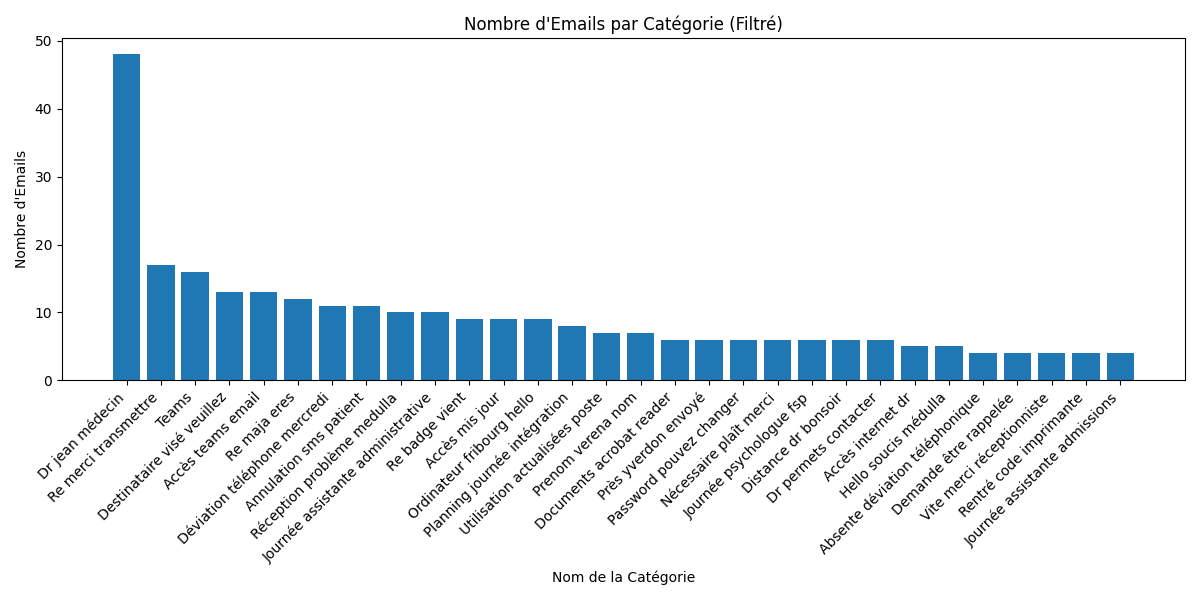
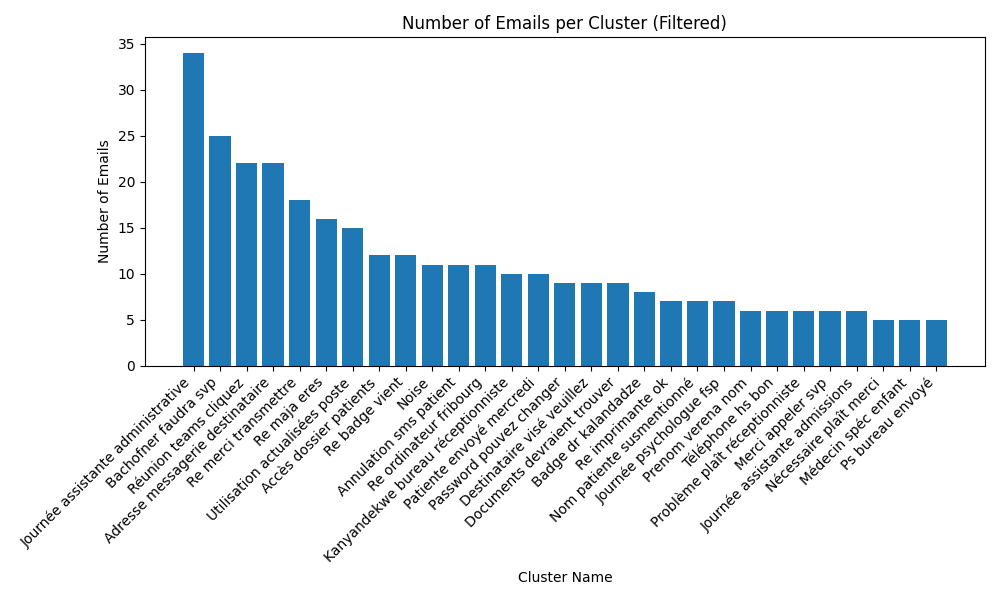
genius idea

diff --git a/templates/clusters.html b/templates/clusters.html
@@ -8,6 +8,7 @@
     <script type="text/javascript" src="//cdn.datatables.net/1.10.25/js/jquery.dataTables.min.js"></script>
 </head>
 <body>
+    <a href="{{ url_for('index') }}">Retourner aux résultats</a>
     <h1>Catégories</h1>
     <h2>Nombre d'Emails par Catégorie</h2>
     <img src="{{ url_for('static', filename='emails_per_cluster_reclassified.png') }}" alt="Emails per Cluster">
@@ -47,6 +48,5 @@
             });
         });
     </script>
-    <a href="{{ url_for('index') }}">Retourner aux résultats</a>
 </body>
 </html>

diff --git a/templates/authors.html b/templates/authors.html
@@ -8,6 +8,7 @@
     <script type="text/javascript" src="//cdn.datatables.net/1.10.25/js/jquery.dataTables.min.js"></script>
 </head>
 <body>
+    <a href="{{ url_for('index') }}">Retourner aux résultats</a>
     <h1>Nos Clients</h1>
     <h2>Top 20 des Auteurs</h2>
     <img src="{{ url_for('static', filename='top_authors.png') }}" alt="Top 20 Auteurs">
@@ -36,6 +37,5 @@
             });
         });
     </script>
-    <a href="{{ url_for('index') }}">Retourner aux résultats</a>
 </body>
 </html>

diff --git a/server_pdf.py b/server_pdf.py
@@ -91,12 +91,13 @@ def preprocess_text(text, author_name):
     return ' '.join(tokens)
 
 # Function to perform clustering and generate visualizations
+# Function to perform clustering and generate visualizations
 def perform_clustering():
     global df_emails, cluster_names, fig_json, X_embedded, cluster_keywords
 
     # Specify the folder path
     folder_path = r'/home/administrator/mail_infra'  # Update this path as needed
-    #folder_path = r'C:\Users\JGH\Documents\Mail semaine du 4 au 8 nov'  # Update this path as needed
+    folder_path = r'C:\Users\JGH\Documents\Mail semaine du 4 au 8 nov'  # Update this path as needed
 
     # Initialize lists to store email contents and metadata
     emails = []
@@ -173,10 +174,11 @@ def perform_clustering():
     )
     X_embedded = umap_reducer.fit_transform(X_np)
 
+    # Initial clustering parameters
     params = {
-        "min_cluster_size": [3, 4, 5, 7, 10, 20, 30, 50, 70, 100],
-        "min_samples": [4, 5, 7, 10, 15, 20, 30, 50, 70, 100, 150, 200, 250, 300],
-        "cluster_selection_epsilon": [0.5, 0.8, 1.0],
+        "min_cluster_size": [3, 4, 5, 7, 10],
+        "min_samples": [1, 2, 3, 4],
+        "cluster_selection_epsilon": [0.5, 1.0, 2.0],
         "metric": ['euclidean']
     }
 
@@ -266,19 +268,20 @@ def perform_clustering():
     # Initialize KeyBERT model
     kw_model = KeyBERT(model_name)
 
-    # Extract cluster categories and topics
-    cluster_texts = {}
-    cluster_keywords = {}
+    # Initialize global variables
     global cluster_names
     cluster_names = {}
     cluster_indices = {}
-    for cluster in set(labels):
-        if cluster != -1:
+    cluster_keywords = {}
+
+    # Function to extract cluster names and keywords
+    def extract_cluster_info(labels):
+        unique_clusters = set(labels) - {-1}
+        for cluster in unique_clusters:
             indices = df_emails[df_emails['Cluster'] == cluster].index
             cluster_indices[cluster] = indices
             cluster_emails = df_emails.loc[indices, 'Email'].tolist()
             cluster_subjects = df_emails.loc[indices, 'Subject'].tolist()
-            cluster_texts[cluster] = cluster_emails
 
             # Combine all cluster emails into a single document
             cluster_combined_text = ' '.join(cluster_emails)
@@ -307,24 +310,37 @@ def perform_clustering():
             for keyword, score in top_keywords[:10]:
                 print(f"  - {keyword} (score: {score:.4f})")
 
-    # Map cluster names to the DataFrame
-    df_emails['Cluster_Name'] = df_emails['Cluster'].map(cluster_names)
-    df_emails['Cluster_Name'] = df_emails['Cluster_Name'].fillna('Noise')
+    # Extract initial cluster information
+    extract_cluster_info(labels)
 
     # --------------------------
-    # Reclustering the Largest Cluster
+    # Iterative Reclustering
     # --------------------------
+    max_iterations = 10
+    iteration = 0
+    total_emails = len(df_emails)
 
-    # Identify the largest cluster
-    cluster_counts = df_emails['Cluster'].value_counts()
-    largest_cluster_label = cluster_counts.idxmax()
-    largest_cluster_size = cluster_counts.max()
+    while True:
+        # Identify the largest cluster
+        cluster_counts = df_emails['Cluster'].value_counts()
+        largest_cluster_label = cluster_counts.idxmax()
+        largest_cluster_size = cluster_counts.max()
+        size_difference = cluster_counts.max() - cluster_counts.min()
+        largest_cluster_percentage = largest_cluster_size / total_emails
 
-    print(f"\nReclustering the largest cluster: {largest_cluster_label} "
-          f"with {largest_cluster_size} emails.")
+        print(f"\nIteration {iteration + 1}:")
+        print(f"Largest cluster {largest_cluster_label} has {largest_cluster_size} emails "
+              f"({largest_cluster_percentage:.2%} of total).")
+        print(f"Size difference between largest and smallest clusters: {size_difference}")
 
-    # Check if the largest cluster is significantly large
-    if largest_cluster_size / len(df_emails) > 0.1:  # Adjust threshold as needed
+        # Check if the largest cluster exceeds 10% of total emails
+        if largest_cluster_percentage <= 0.10 or iteration >= max_iterations:
+            print("Stopping reclustering.")
+            break
+
+        # Proceed to recluster the largest cluster
+        print(f"Reclustering cluster {largest_cluster_label}...")
+
         # Extract data points belonging to the largest cluster
         indices_largest_cluster = df_emails[df_emails['Cluster'] == largest_cluster_label].index
         X_largest_cluster = X_np[indices_largest_cluster]
@@ -339,21 +355,64 @@ def perform_clustering():
         )
         X_embedded_sub = umap_reducer_sub.fit_transform(X_largest_cluster)
 
-        params = {
-            "min_cluster_size": [3, 4, 5, 7, 10, 20, 30, 50, 70, 100],
-            "min_samples": [4, 5, 7, 10, 15, 20, 30, 50, 70, 100, 150, 200, 250, 300],
-            "cluster_selection_epsilon": [0.5, 0.8, 1.0],
+        # Define new clustering parameters for reclustering
+        recluster_params = {
+            "min_cluster_size": [3, 4, 5],
+            "min_samples": [1, 2, 3],
+            "cluster_selection_epsilon": [0.5, 1.0],
             "metric": ['euclidean']
         }
 
-        # For simplicity, select one set of parameters for reclustering
-        reclusterer = hdbscan.HDBSCAN(
-            min_cluster_size=2,
-            min_samples=1,
-            metric='euclidean',
-            cluster_selection_epsilon=0.5
-        )
-        sub_labels = reclusterer.fit_predict(X_embedded_sub)
+        # Initialize reclustering results
+        recluster_results = []
+        reclusterer_configs = []
+
+        # Iterate through reclustering parameter combinations
+        for min_cluster_size, min_samples, epsilon, metric in itertools.product(
+                recluster_params['min_cluster_size'], recluster_params['min_samples'],
+                recluster_params['cluster_selection_epsilon'], recluster_params['metric']
+        ):
+            reclusterer = hdbscan.HDBSCAN(
+                min_cluster_size=min_cluster_size,
+                min_samples=min_samples,
+                metric=metric,
+                cluster_selection_epsilon=epsilon
+            )
+            sub_labels = reclusterer.fit_predict(X_embedded_sub)
+
+            # Unique labels and number of clusters
+            unique_sub_labels = set(sub_labels)
+            num_sub_clusters = len(unique_sub_labels - {-1})
+
+            # Compute statistics
+            sub_cluster_sizes = [sum(sub_labels == cluster) for cluster in unique_sub_labels - {-1}]
+            if sub_cluster_sizes:
+                sub_average_cluster_size = sum(sub_cluster_sizes) / num_sub_clusters
+                sub_size_difference = max(sub_cluster_sizes) - min(sub_cluster_sizes)
+            else:
+                sub_average_cluster_size = 0
+                sub_size_difference = 0
+
+            # Append results
+            recluster_results.append({
+                "min_cluster_size": min_cluster_size,
+                "min_samples": min_samples,
+                "epsilon": epsilon,
+                "num_clusters": num_sub_clusters,
+                "average_cluster_size": sub_average_cluster_size,
+                "size_difference": sub_size_difference
+            })
+            reclusterer_configs.append(reclusterer)
+
+        # Select the reclustering configuration with the maximum number of clusters
+        recluster_results_df = pd.DataFrame(recluster_results)
+        best_recluster_index = recluster_results_df['num_clusters'].idxmax()
+        best_recluster_params = recluster_results_df.iloc[best_recluster_index]
+        print(f"Best reclustering parameters: {best_recluster_params.to_dict()}")
+
+        # Apply the best reclustering configuration
+        best_reclusterer = reclusterer_configs[best_recluster_index]
+        sub_labels = best_reclusterer.fit_predict(X_embedded_sub)
 
         # Offset subcluster labels to ensure unique labels
         max_label = df_emails['Cluster'].max()
@@ -402,8 +461,7 @@ def perform_clustering():
         df_emails['Cluster_Name'] = df_emails['Cluster'].map(cluster_names)
         df_emails['Cluster_Name'] = df_emails['Cluster_Name'].fillna('Noise')
 
-    else:
-        print("Largest cluster is not significantly large; skipping reclustering.")
+        iteration += 1
 
     # --------------------------
     # Reclassification Step
@@ -567,7 +625,7 @@ def perform_clustering():
         z=X_embedded[:, 2],
         color='Cluster_Name_Final',
         hover_data=['Subject', 'FileName', 'Author'],
-        title='Email Clusters Visualized in 3D Space After Reclustering'
+        title='Email Clusters Visualized in 3D Space After Iterative Reclustering'
     )
 
     fig.update_traces(marker=dict(size=5))
